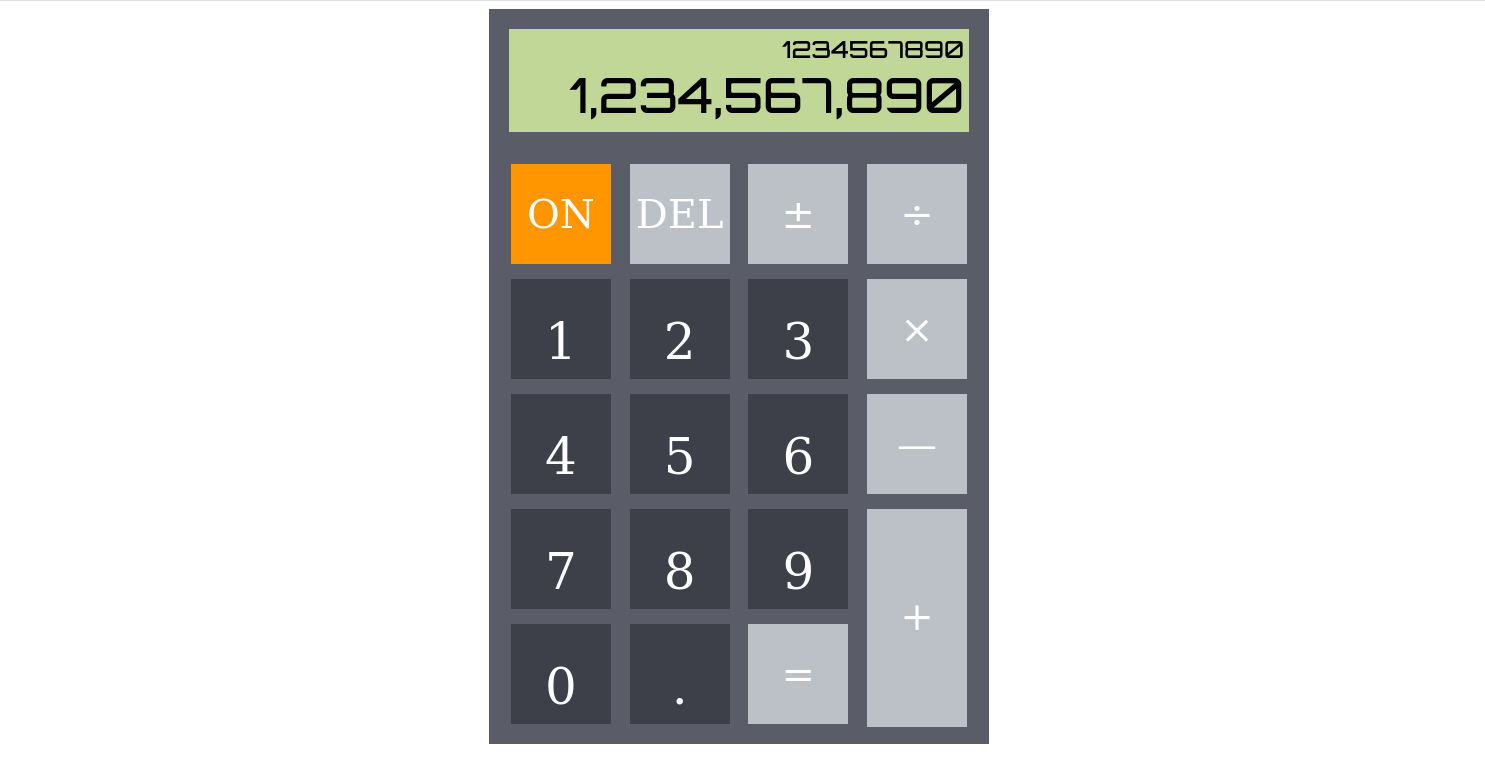
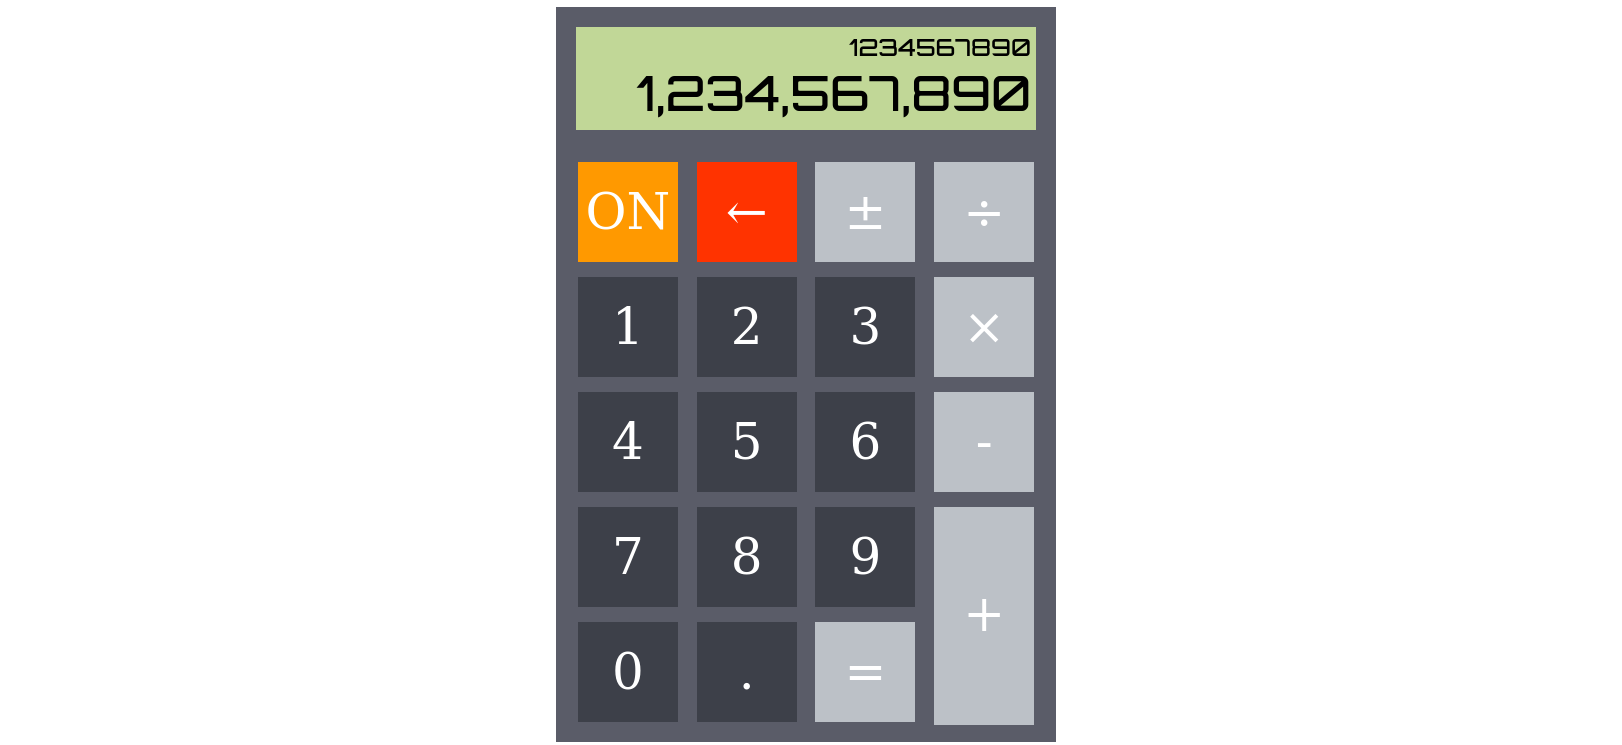
Update colors

Changed region(s): [[0.3098, 0.0, 0.6815, 1.0]]

diff --git a/style.css b/style.css
@@ -1,6 +1,7 @@
 :root {
   --case: #5a5c68;
   --orange: #f90;
+  --red: #f30;
   --display: #c1d797;
   --blackButton: #3d4049;
   --grayButton: #bcc1c7;
@@ -20,6 +21,9 @@
 #ac {
   background-color: var(--orange);
   word-wrap: break-word;
+}
+#del {
+  background-color: var(--red);
 }
 #display {
   background-color: var(--display);
@@ -43,7 +47,7 @@
   text-transform: uppercase;
   cursor: pointer;
   vertical-align: middle;
-  line-height: 250%;
+  line-height: 200%;
   /* disables select text on buttons */
   -webkit-touch-callout: none; /* iOS Safari */
   -webkit-user-select: none; /* Safari */
@@ -52,9 +56,6 @@
   -ms-user-select: none; /* Internet Explorer/Edge */
   user-select: none; /* Non-prefixed version, currently
                                   supported by Chrome, Edge, Opera and Firefox */
-}
-.btn.text {
-  font-size: 40px;
 }
 .function {
   background-color: var(--grayButton);

diff --git a/index.html b/index.html
@@ -20,7 +20,7 @@
         <div id="ac" class="btn text">
           on
         </div>
-        <div class="btn text function">del</div>
+        <div id="del" class="btn text function">←</div>
         <div class="btn text function">±</div>
         <div class="btn text function">÷</div>
         <div value="1" class="btn number">1</div>
@@ -30,7 +30,7 @@
         <div class="btn number">4</div>
         <div class="btn number">5</div>
         <div class="btn number">6</div>
-        <div class="btn text function">—</div>
+        <div class="btn text function">-</div>
         <div class="btn number">7</div>
         <div class="btn number">8</div>
         <div class="btn number">9</div>
